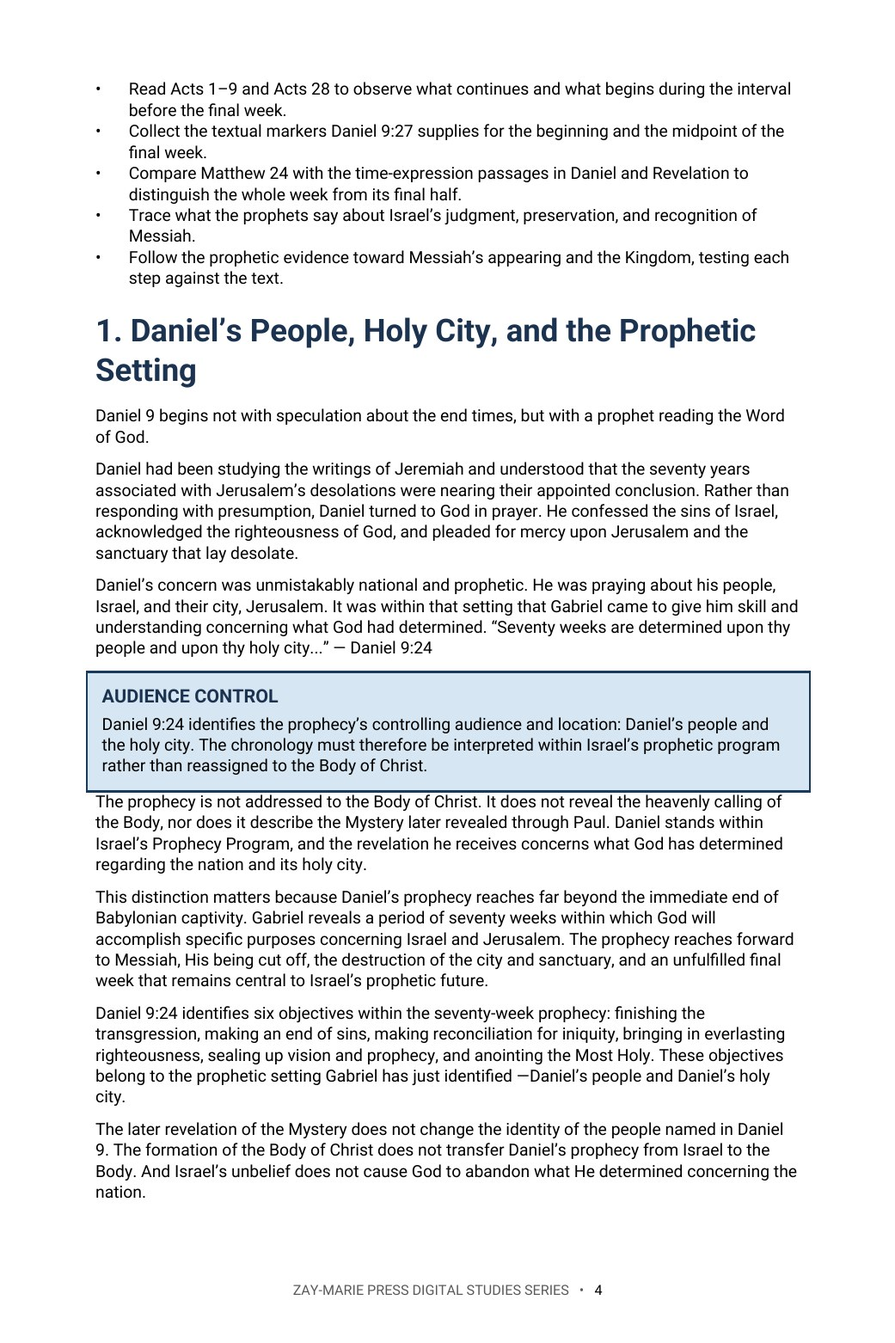
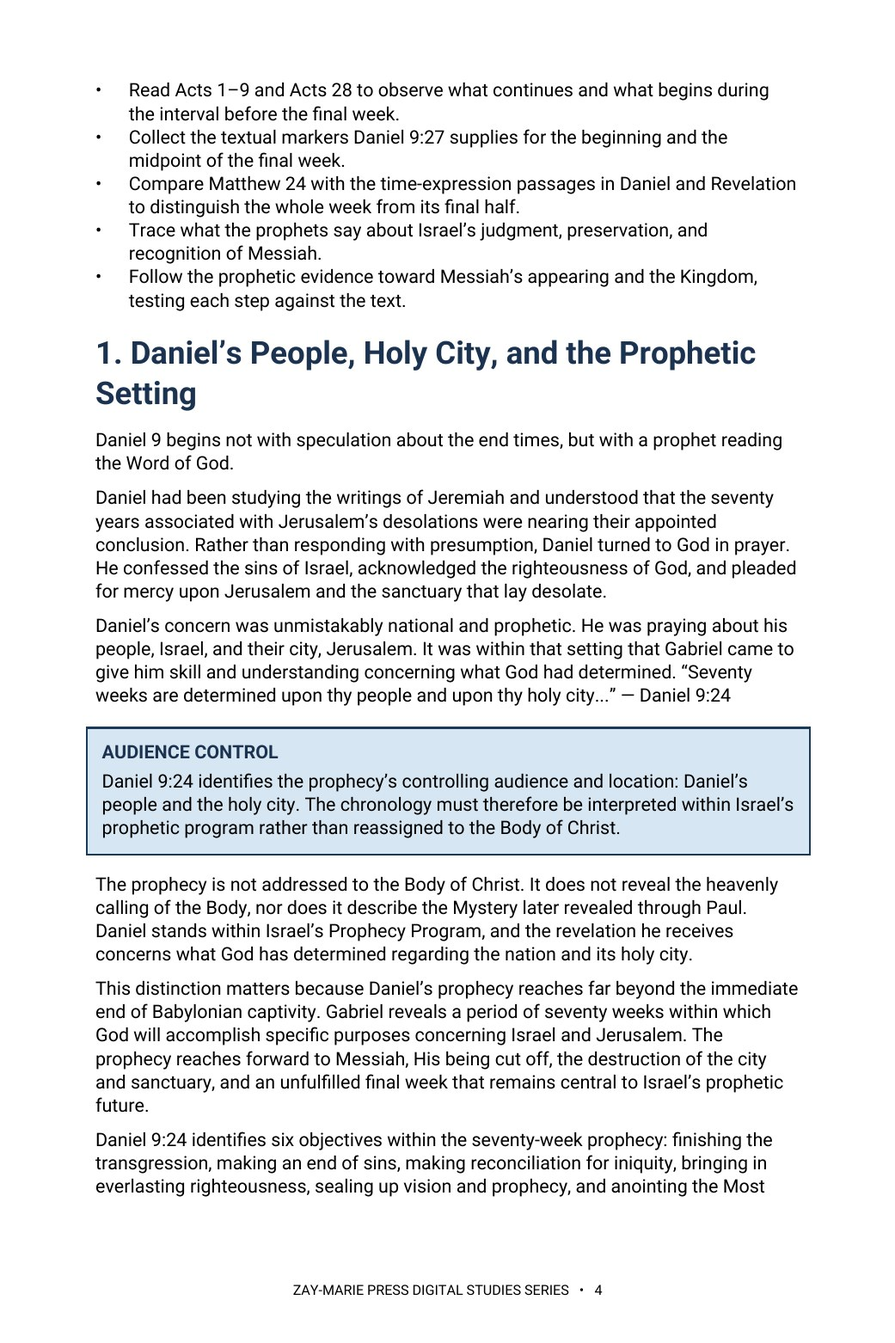
Study 10: rebuild at 23 pages with v1.51 imprint, process wording, Acts 28 conformed with sequence sentence, numbered Teaching Outline
Claude-Session: https://claude.ai/code/session_01HC7bs9KYP2scp4hCL6DkTp

diff --git a/study-10-daniels-seventieth-week.html b/study-10-daniels-seventieth-week.html
@@ -15,8 +15,8 @@
 <section class="detail-section cream"><div class="wrap"><div class="eyebrow">KEY SCRIPTURES</div><h2>Examine the Passages for Yourself</h2><div class="scripture-grid"><div class="scripture-card"><h3>Daniel 9:24–27</h3><p>Establishes the people, city, objectives, divisions, and final-week markers of the prophecy.</p></div><div class="scripture-card"><h3>Acts 1:6</h3><p>Shows Israel’s Kingdom expectation still in view after the resurrection.</p></div><div class="scripture-card"><h3>Acts 9</h3><p>Marks the beginning of the Mystery revealed through Paul while Prophecy continues.</p></div><div class="scripture-card"><h3>Acts 28:25–28</h3><p>Marks the suspension of Israel’s Prophecy Program without cancellation of Israel’s promises.</p></div><div class="scripture-card"><h3>Matthew 24:15–31</h3><p>Connects the abomination with the Great Tribulation and Messiah’s appearing.</p></div><div class="scripture-card"><h3>2 Thessalonians 2:3–8</h3><p>Adds prophetic detail concerning the final ruler and his self-exaltation.</p></div><div class="scripture-card"><h3>Revelation 11–13</h3><p>Supplies time markers that illuminate the final half of the week.</p></div><div class="scripture-card"><h3>Zechariah 12–14</h3><p>Traces Israel’s future recognition of Messiah, deliverance, and Kingdom fulfillment.</p></div></div></div></section>
 <section class="detail-section"><div class="wrap"><div class="eyebrow">FROM THE STUDY</div><h2>God’s Prophetic Word Concerning Israel Will Stand</h2><div class="excerpt"><blockquote>“What God determined concerning Daniel’s people and Daniel’s holy city, He will fulfill.”</blockquote><p>The final week belongs to the prophetic purpose determined for Israel and Jerusalem. The Mystery revealed through Paul does not rewrite Daniel’s audience, absorb Israel’s promises, or place the Body of Christ inside Israel’s final week.</p></div></div></section>
 <section class="detail-section soft"><div class="wrap"><div class="eyebrow">A LOOK INSIDE</div><h2>Preview the Study Before You Purchase</h2><p class="preview-instruction">Click any page to enlarge it for reading.</p><div class="preview-grid"><div class="preview-card"><a class="preview-image-link" data-preview-lightbox href="assets/study-10-page-2.jpg"><img src="assets/study-10-page-2.jpg" alt="Study 10 interior preview — page 2, table of contents"/></a><div class="page-no">Page 2</div><h3>Table of Contents</h3><p>See the full structure of the study, from the introduction through the final synthesis.</p></div><div class="preview-card"><a class="preview-image-link" data-preview-lightbox href="assets/study-10-page-3.jpg"><img src="assets/study-10-page-3.jpg" alt="Study 10 interior preview — page 3, what you will learn"/></a><div class="page-no">Page 3</div><h3>What You Will Learn</h3><p>See the study’s goals, controls, and central question at a glance.</p></div><div class="preview-card"><a class="preview-image-link" data-preview-lightbox href="assets/study-10-page-4.jpg"><img src="assets/study-10-page-4.jpg" alt="Study 10 interior preview — page 4, Daniel’s people, holy city, and the prophetic setting"/></a><div class="page-no">Page 4</div><h3>Daniel’s People, Holy City, and the Prophetic Setting</h3><p>Begin where Daniel 9 begins: with a prophet reading the Word and praying for his people and city.</p></div></div></div></section>
-<section class="detail-section"><div class="wrap"><div class="eyebrow">WHAT’S INCLUDED</div><h2>A Focused Study Built for<br/>Understanding and Teaching</h2><div class="includes-grid"><div class="include-item"><h3>20-Page In-Depth Biblical Study</h3><p>A sustained, Scripture-first examination of Daniel’s final prophetic week.</p></div><div class="include-item"><h3>Seven Core Teaching Sections</h3><p>Progress from Daniel’s people and city to the final week, Messiah’s appearing, and Kingdom.</p></div><div class="include-item"><h3>Daniel 9 Structure Study</h3><p>Establish the seventy weeks, the sixty-nine completed weeks, and the one remaining week.</p></div><div class="include-item"><h3>Acts Overlap Control</h3><p>Keep Daniel’s future week within Israel’s Prophecy Program while Mystery operates distinctly in Acts.</p></div><div class="include-item"><h3>Ten Review Questions</h3><p>Test the study’s distinctions concerning Daniel 9, the week, Israel, and the Body.</p></div><div class="include-item"><h3>Teaching Outline</h3><p>A ready outline for explaining the final week without depending on an inherited chart.</p></div><div class="include-item"><h3>Guided Further Study</h3><p>Trace the key texts on the structure, midpoint, preservation, Messiah’s appearing, and Kingdom.</p></div><div class="include-item"><h3>Final Synthesis Exercise</h3><p>Build the entire argument from Scripture and distinguish explicit statements from broader synthesis.</p></div></div></div></section>
-<section class="detail-section cream"><div class="wrap"><div class="final-buy"><div><div class="eyebrow">STUDY 10 · DIGITAL STUDY</div><h2>Daniel’s Seventieth Week</h2><p>20-page digital PDF · For personal use</p></div><div class="final-offer"><div class="detail-price">$5.99</div><span class="detail-button pending" aria-disabled="true">Get the Study</span></div></div><a class="back-link" href="digital-studies.html">← Back to All Digital Studies</a></div></section><section class="study-method-course-bridge"><div class="wrap"><div class="study-method-course-panel"><div><div class="eyebrow">BUILD THE INTERPRETIVE METHOD</div><h2>Want More Than a Focused Study?</h2><p>Digital Studies examine particular biblical subjects and difficult passages. The 40-lesson Biblical Hermeneutics course teaches a complete, repeatable method for establishing meaning in context, determining proper assignment, and making responsible application.</p></div><a class="btn btn-primary" href="biblical-hermeneutics-course.html">BIBLICAL HERMENEUTICS COURSE</a></div></div></section></main>
+<section class="detail-section"><div class="wrap"><div class="eyebrow">WHAT’S INCLUDED</div><h2>A Focused Study Built for<br/>Understanding and Teaching</h2><div class="includes-grid"><div class="include-item"><h3>22-Page In-Depth Biblical Study</h3><p>A sustained, Scripture-first examination of Daniel’s final prophetic week.</p></div><div class="include-item"><h3>Seven Core Teaching Sections</h3><p>Progress from Daniel’s people and city to the final week, Messiah’s appearing, and Kingdom.</p></div><div class="include-item"><h3>Daniel 9 Structure Study</h3><p>Establish the seventy weeks, the sixty-nine completed weeks, and the one remaining week.</p></div><div class="include-item"><h3>Acts Overlap Control</h3><p>Keep Daniel’s future week within Israel’s Prophecy Program while Mystery operates distinctly in Acts.</p></div><div class="include-item"><h3>Ten Review Questions</h3><p>Test the study’s distinctions concerning Daniel 9, the week, Israel, and the Body.</p></div><div class="include-item"><h3>Teaching Outline</h3><p>A ready outline for explaining the final week without depending on an inherited chart.</p></div><div class="include-item"><h3>Guided Further Study</h3><p>Trace the key texts on the structure, midpoint, preservation, Messiah’s appearing, and Kingdom.</p></div><div class="include-item"><h3>Final Synthesis Exercise</h3><p>Build the entire argument from Scripture and distinguish explicit statements from broader synthesis.</p></div></div></div></section>
+<section class="detail-section cream"><div class="wrap"><div class="final-buy"><div><div class="eyebrow">STUDY 10 · DIGITAL STUDY</div><h2>Daniel’s Seventieth Week</h2><p>22-page digital PDF · For personal use</p></div><div class="final-offer"><div class="detail-price">$5.99</div><span class="detail-button pending" aria-disabled="true">Get the Study</span></div></div><a class="back-link" href="digital-studies.html">← Back to All Digital Studies</a></div></section><section class="study-method-course-bridge"><div class="wrap"><div class="study-method-course-panel"><div><div class="eyebrow">BUILD THE INTERPRETIVE METHOD</div><h2>Want More Than a Focused Study?</h2><p>Digital Studies examine particular biblical subjects and difficult passages. The 40-lesson Biblical Hermeneutics course teaches a complete, repeatable method for establishing meaning in context, determining proper assignment, and making responsible application.</p></div><a class="btn btn-primary" href="biblical-hermeneutics-course.html">BIBLICAL HERMENEUTICS COURSE</a></div></div></section></main>
 <div class="preview-lightbox" id="preview-lightbox" role="dialog" aria-modal="true" aria-label="Enlarged study page preview"><button class="preview-lightbox-close" type="button" aria-label="Close enlarged preview">×</button><img src="" alt=""/><div class="preview-lightbox-hint">Scroll to read the full page · Press Esc or click outside the page to close</div></div>
 <footer class="site-footer"><div class="wrap footer-grid"><div class="footer-about"><h3>Zay-Marie Press</h3><p class="footer-tagline"><em>Where the Bible Means What It Says.</em></p><p>Zay-Marie Press is a Christian theological publisher dedicated to producing doctrinally precise, carefully structured biblical resources that equip pastors, teachers, and serious students with clarity, depth, and Scripture-anchored truth.</p><p><a href="https://zaymariepress.com">zaymariepress.com</a><br/><a href="mailto:info@zaymariepress.com">info@zaymariepress.com</a></p></div><div class="footer-column"><h3>Explore</h3><div class="footer-links-stacked"><a href="books.html">Books</a><br/><a href="series.html">Series</a><br/><a href="biblical-hermeneutics-course.html">Course</a><br/><a href="digital-studies.html">Digital Studies</a><br/><a href="resources.html">Resources</a><br/><a href="bible-book-summaries.html">Bible Book Summaries</a><br/><a href="doctrinal-packets.html">Doctrinal Packets</a><br/><a href="historical-drift.html">Historical Drift</a><br/><a href="about.html">About</a><br/><a href="contact.html">Contact</a></div></div><div class="footer-column"><h3>Reader Support</h3><div class="footer-links-stacked"><a href="reader-support.html#faq">FAQ</a><br/><a href="reader-support.html#shipping-returns">Shipping &amp; Returns</a><br/><a href="reader-support.html#digital-downloads">Digital Downloads</a><br/><a href="reader-support.html#contact-support">Contact Support</a></div></div><div class="footer-column"><h3>Acts Overlap</h3><p><strong>Acts Overlap Theology Series</strong></p><p><em>Two Distinct Streams. One Overlap.</em></p><p><a href="series.html">Series Overview</a></p></div></div><div class="wrap footer-bottom">© 2026 Zay-Marie Press. All rights reserved.</div></footer>
 <script src="site.js"></script><script>(function(){var box=document.getElementById("preview-lightbox"),img=box.querySelector("img"),close=box.querySelector(".preview-lightbox-close"),hint=box.querySelector(".preview-lightbox-hint"),hintTimer;function shut(){clearTimeout(hintTimer);box.classList.remove("open");hint.classList.remove("fade");document.body.style.overflow="";img.src=""}document.querySelectorAll("[data-preview-lightbox]").forEach(function(a){a.addEventListener("click",function(e){e.preventDefault();clearTimeout(hintTimer);img.src=a.getAttribute("href");img.alt=a.querySelector("img").alt;hint.classList.remove("fade");box.classList.add("open");document.body.style.overflow="hidden";box.scrollTop=0;hintTimer=setTimeout(function(){hint.classList.add("fade")},3000)})});close.addEventListener("click",shut);box.addEventListener("click",function(e){if(e.target===box)shut()});document.addEventListener("keydown",function(e){if(e.key==="Escape"&&box.classList.contains("open"))shut()})})();</script></body></html>

diff --git a/site.js b/site.js
@@ -62,7 +62,7 @@ const resourceModal=document.querySelector('#resource-modal'), resourceModalTitl
 if(resourceModal&&resourceModalTriggers.length){const closeResourceModal=()=>{resourceModal.hidden=true;document.body.classList.remove('resource-modal-open');lastResourceTrigger?.focus();};resourceModalTriggers.forEach(trigger=>trigger.addEventListener('click',()=>{lastResourceTrigger=trigger;if(resourceModalTitle)resourceModalTitle.textContent=trigger.dataset.title||'Resource';if(resourceModalDescription)resourceModalDescription.textContent=trigger.dataset.description||'';if(resourceModalLink){resourceModalLink.href=trigger.dataset.href||'#';resourceModalLink.textContent=trigger.dataset.linkText||'OPEN RESOURCE';}resourceModal.hidden=false;document.body.classList.add('resource-modal-open');resourceModalClose?.focus();}));resourceModalClose?.addEventListener('click',closeResourceModal);resourceModal.addEventListener('click',e=>{if(e.target===resourceModal)closeResourceModal();});document.addEventListener('keydown',e=>{if(e.key==='Escape'&&!resourceModal.hidden)closeResourceModal();});}
 
 /* Display the verified final-PDF page count at the primary purchase decision point. */
-const digitalStudyPageCounts={1:20,2:19,3:18,4:17,5:15,6:15,7:15,8:15,9:15,10:20,11:15,12:15,13:18,14:15,15:15,16:16,17:17,18:18,19:18,20:18,21:16,22:15,23:14,24:16,25:17,26:16,27:16,28:17,29:19,30:18,31:19,32:19,33:18,34:20,35:22,36:20,37:21,38:22,39:22,40:23,41:21,42:17,43:16,44:19,45:19,46:20,47:20,48:20,49:20,50:20,51:20,52:19,53:19,54:17,55:20,56:20,57:20,58:19,59:20,60:15,61:14,62:18,63:17,64:17,65:16,66:16,67:17,68:16,69:17,70:17,71:16};
+const digitalStudyPageCounts={1:20,2:19,3:18,4:17,5:15,6:15,7:15,8:15,9:15,10:23,11:15,12:15,13:18,14:15,15:15,16:16,17:17,18:18,19:18,20:18,21:16,22:15,23:14,24:16,25:17,26:16,27:16,28:17,29:19,30:18,31:19,32:19,33:18,34:20,35:22,36:20,37:21,38:22,39:22,40:23,41:21,42:17,43:16,44:19,45:19,46:20,47:20,48:20,49:20,50:20,51:20,52:19,53:19,54:17,55:20,56:20,57:20,58:19,59:20,60:15,61:14,62:18,63:17,64:17,65:16,66:16,67:17,68:16,69:17,70:17,71:16};
 const digitalStudyMatch=window.location.pathname.match(/\/study-(\d+)-/i);
 const digitalStudyFormat=document.querySelector('.detail-hero .detail-format');
 if(digitalStudyMatch&&digitalStudyFormat){const studyNumber=Number(digitalStudyMatch[1]),pageCount=digitalStudyPageCounts[studyNumber];if(pageCount)digitalStudyFormat.textContent=`Digital PDF · ${pageCount} Pages`;}

diff --git a/build-tools/studies/b10/ed10r.py b/build-tools/studies/b10/ed10r.py
@@ -1,0 +1,33 @@
+from edcommon import *
+SEQ="Acts 28 establishes the suspension boundary; that the seventieth week remains future rests on Daniel 9:24–27 and the prophetic passages traced here, not on Acts 28 alone."
+def sub(els,old,new):
+    n=0
+    for e in els:
+        if P(e):
+            for s in e['segs']:
+                if old in s[0]: s[0]=s[0].replace(old,new,1); n+=1
+    assert n==1,(old,n)
+def apply(els):
+    assert T(els[2]).startswith('You will learn how the biblical evidence') and T(els[3]).startswith('You will also examine')
+    els[2]=mk('body',[['You will trace the textual markers for the beginning of that final week, its midpoint, the abomination of desolation, the Great Tribulation, Israel’s judgment and preservation, and the return of Christ, testing each step against the passages themselves.',False,False]])
+    els[3]=mk('body',[['You will also examine how Daniel’s prophetic timetable relates to the Acts 9–28 period, reading the Acts record for what continues, what begins, and what is said at Acts 28.',False,False]])
+    idx=[i for i in range(4,14) if els[i]['kind']=='bul']
+    assert len(idx)==8 and els[idx[-1]+1]['kind']=='ctitle'
+    new=['Read Daniel 9:24–27 for the people, city and objectives it names.',
+    'Follow the sixty-nine weeks to Messiah and test what Daniel 9:26–27 says comes next.',
+    'Read Acts 1–9 and Acts 28 for what continues and what begins, and note what they leave unstated.',
+    'Collect the markers Daniel 9:27 gives for the beginning and midpoint of the week, and compare Matthew 24 and Revelation to separate the whole week from its latter half.',
+    'Trace what the prophets say about Israel’s judgment, preservation and recognition of Messiah, and what each says preservation is.',
+    'Reconstruct the argument directly from Scripture rather than from an inherited prophetic chart.']
+    els[idx[0]:idx[-1]+1]=[mk('bul',[[t,False,False]]) for t in new]
+    sub(els,'this marks the national judicial suspension of Israel’s Prophecy Program—not abolition and not a transfer.','Israel’s Prophecy Program was nationally suspended—not canceled, transferred or absorbed. '+SEQ)
+    sub(els,'entered its national judicial suspension at Acts 28.','was nationally suspended at Acts 28.')
+    sub(els,'The national judicial suspension of Prophecy at Acts 28 did not cancel them.','The national suspension of Prophecy at Acts 28 did not cancel them.')
+    sub(els,'At Acts 28, Israel’s Prophecy Program entered its national judicial suspension—not abolition and not a transfer—while','At Acts 28, Israel’s Prophecy Program was nationally suspended—not canceled, transferred or absorbed—while')
+    sub(els,'Acts 28 is the national judicial suspension of Israel’s Prophecy Program (not abolition and not a transfer);','At Acts 28 Israel’s Prophecy Program was nationally suspended (not canceled, transferred or absorbed);')
+    sub(els,'Prophecy then enters its national judicial suspension (not abolition and not a transfer) while','Prophecy is then nationally suspended (not canceled, transferred or absorbed) while')
+    for e in els:
+        if P(e):
+            assert 'judicial suspension' not in T(e) and 'not abolition' not in T(e), T(e)[:80]
+    number_outline(els)
+    return els

diff --git a/CLAUDE.md b/CLAUDE.md
@@ -26,7 +26,7 @@ These are kept in the repo at `controlling-documents/` and are the current versi
 - **`build-tools/`** — the study rebuild toolkit (scripts, per-study edit files, README), committed 2026-10-04 at the publisher's approval so the retrofit method and every per-study wording edit survive a session reset. Working tools only; the site does not use them. Not a rule.
 **`controlling-documents/Digital_Studies_Relationship_Map_v1.39.md`** — records each study's distinct subject, its related studies, the eight priced six-study collections, the Paul's Missionary Journeys cross-reference map, and the five primary catalog categories (currently version 1.39, covers Studies 1–71; update it as new studies publish, bump the version number, rename the file to match, and log the change in its own version-history table — mirroring the Master Standard's `_vX.Y` filename convention). Check a proposed topic against it before recommending or writing a new study. (2026-09-28: the file was missing from this repo despite this note referencing it; replaced from the publisher's copy and bumped v1.15→v1.25 in the same pass. If this note ever again points to a version not present under `controlling-documents/`, ask the publisher for a copy rather than proceeding without the check.)
 - **`controlling-documents/Digital_Studies_Category_Standard_v1.1.md`** — FINAL and binding (publisher, 2026-10-01): the rules for the five primary catalog categories (Foundations, Israel & Prophecy, Body of Christ, Passages, Doctrinal Themes), the ordered decision procedure for new studies, the precedents, all 71 fixed assignments, and the cover-label form for each category. Read it before placing any card or cover label. Do not ask the publisher where a study belongs; apply the procedure and state the result. Only the publisher changes a ruling; then bump this Standard's version and filename, re-letter the cover, and update the Relationship Map.
-- **`controlling-documents/Doctrinal_Upgrade_Retrofit_Plan_v1.138.md`** — working tracker for retrofitting Studies 1–59 to the 2026-10-02 doctrinal upgrade (Framework/PAM v1.1, Master Standard v1.40, Rules 7–17): withdrawn-wording search keys, impact tiers, waves and the per-study method. Read it before continuing the retrofit in any session; update status, bump the version and rename the file as work proceeds.
+- **`controlling-documents/Doctrinal_Upgrade_Retrofit_Plan_v1.139.md`** — working tracker for retrofitting Studies 1–59 to the 2026-10-02 doctrinal upgrade (Framework/PAM v1.1, Master Standard v1.40, Rules 7–17): withdrawn-wording search keys, impact tiers, waves and the per-study method. Read it before continuing the retrofit in any session; update status, bump the version and rename the file as work proceeds.
 - **`controlling-documents/Doctrinal_Packet_Standard_v0.3.md`** — Doctrinal Packet Standard (DRAFT; §7 approved). Governs the separate Doctrinal Packets product strand (5-page interpretive PDFs per Bible book — a print-friendly cover as page 1 plus 4 content pages, $2.99, KJV, pilot: Genesis, live at `packet-genesis.html`, hub `doctrinal-packets.html`; site pages say "5 Pages", cover styles live in `packets.css`, Old Testament blue and New Testament soft pale green, hub listed in Bible order). **Preview rule (publisher directive, 2026-09-29, packets only):** previews show about one page's worth in two cropped views (top of page 1 through the anchor texts; the chart section) — never the exegesis, architecture, Mystery contrast, logic chain, outline, or closing. Master Standard §16/§17 still govern Digital Studies. Bump the version and rename the file as the Standard is finalized.
 - **`controlling-documents/Preview_Page_Spoiler_Retrofit_Audit_v1.4.md`** — working tracker for the Studies 1–60 preview-page conclusion-spoiler retrofit (see the section below). Read it before continuing that audit in any session; update its status fields and changelog, bump the version, and rename the file to match as the audit proceeds — same `_vX.Y` convention as the other controlling documents. As of v1.1, the website-side half was DONE: all 60 studies' "What You'll Study" text was judged against the rule (methodology documented in the file) and 22 points across 11 studies were rewritten and pushed; an unrelated Study 22 content bug (Study 21's content had leaked into it) was also found and fixed. As of v1.2, the publisher supplied Studies 1–60's interior production PDFs and the interior-PDF half was also surveyed (read-only): 10 studies (37, 41, 45, 47, 48, 49, 51, 52, 53, 54) were found to have at least one interior "What You Will Learn" violation, 50 studies were confirmed compliant, and the orphaned `assets/study-45-sanctification-under-grace.docx` (removed from the repo per the publisher in v1.0) was confirmed word-for-word identical to Study 45's actual production interior PDF content. As of v1.3, the publisher supplied editable DOCX sources for all 10 violating studies; all 15 violating points were rewritten and approved, delivered as corrected final PDFs, and — along the way — a second defect was found and fixed (Studies 47 and 48's source DOCX still had an unintegrated cover placeholder despite both being long-published live with real covers; fixed by inserting the existing approved cover art). The website's "What You Will Learn" preview image (`study-NN-page-3.jpg`) was regenerated from the corrected content for all 10 studies and pushed to `main` (commit `cea1859`), verified against a fresh clone. **The website side of this audit is now fully compliant for all 60 studies.** Outstanding: the publisher's purchasable interior PDF files themselves have corrected versions delivered, but distribution to existing purchasers was decided by the publisher on 2026-09-29: silent swap of the files behind the existing downloads, no reissue notice (recorded in the v1.4 changelog entry; the product files are not in this repo).
 

diff --git a/controlling-documents/Doctrinal_Upgrade_Retrofit_Plan_v1.139.md b/controlling-documents/Doctrinal_Upgrade_Retrofit_Plan_v1.139.md
@@ -234,3 +234,5 @@ Working tracker for correcting published studies to the Framework/PAM v1.1, Mast
 - v1.137 (2026-10-04): Imprint scan, Study 7 rebuilt at 15 pages (was 14): v1.51 imprint, What You Will Learn cut from 12 conclusion-stating bullets to 5 process bullets, Teaching Outline numbered 1–11, 'Study #7' replaced by 'this study' (2 places). No doctrine changes needed. Website: site.js 7:15; previews 2, 3, 5 (page 5 now the Day-as-period page, relabelled). Studies 8, 10, 2 remain. Publisher-approved 2026-10-04.
 
 - v1.138 (2026-10-04): Imprint scan, Study 8 rebuilt at 15 pages (was 13): v1.51 imprint, What You Will Learn cut from 9 to 5 process bullets, Teaching Outline numbered 1–11, 'Study #8' replaced by 'this study' (Study #7 neighbour pointer kept). No doctrine changes needed. Website: site.js 8:15, page text 14-page (interior; was 13 stale), previews 2, 3, 5. Studies 10 and 2 remain. Publisher-approved 2026-10-04.
+
+- v1.139 (2026-10-04): Imprint scan, Study 10 rebuilt at 23 pages (was 20): v1.51 imprint; What You Will Learn opening paragraphs and bullets rewritten to process (6 bullets); Teaching Outline numbered 1–8; six 'national judicial suspension … not abolition and not a transfer' passages conformed to 'nationally suspended—not canceled, transferred or absorbed'; publisher ruling (option 1): Acts 28 sequence sentence 'Acts 28 establishes the suspension boundary; that the seventieth week remains future rests on Daniel 9:24–27 and the prophetic passages traced here, not on Acts 28 alone.' Website: site.js 10:23, page text 22-page (interior), previews 2, 3, 4. Study 2 remains. Publisher-approved 2026-10-04.

diff --git a/controlling-documents/Digital_Studies_PAM_Audit_v1.233.md b/controlling-documents/Digital_Studies_PAM_Audit_v1.233.md
@@ -462,3 +462,4 @@ Study 15 PDF not yet supplied. Typography: none of Studies 2, 3, 6, 8 is in EB G
 - v1.230 (2026-10-04): Study 3 rebuilt at 18 pages with v1.51 imprint, Acts 28 sequence sentence ruling, bulleted What You Will Learn (see Retrofit Plan v1.136).
 - v1.231 (2026-10-04): Study 7 rebuilt at 15 pages with v1.51 imprint, five process-bullet What You Will Learn, numbered Teaching Outline, 'Study #7' removed (see Retrofit Plan v1.137).
 - v1.232 (2026-10-04): Study 8 rebuilt at 15 pages with v1.51 imprint, five process-bullet What You Will Learn, numbered Teaching Outline, 'Study #8' removed (see Retrofit Plan v1.138).
+- v1.233 (2026-10-04): Study 10 rebuilt at 23 pages with v1.51 imprint, process-bullet What You Will Learn, numbered Teaching Outline, six Acts 28 conformings plus the seventieth-week sequence sentence (see Retrofit Plan v1.139).
